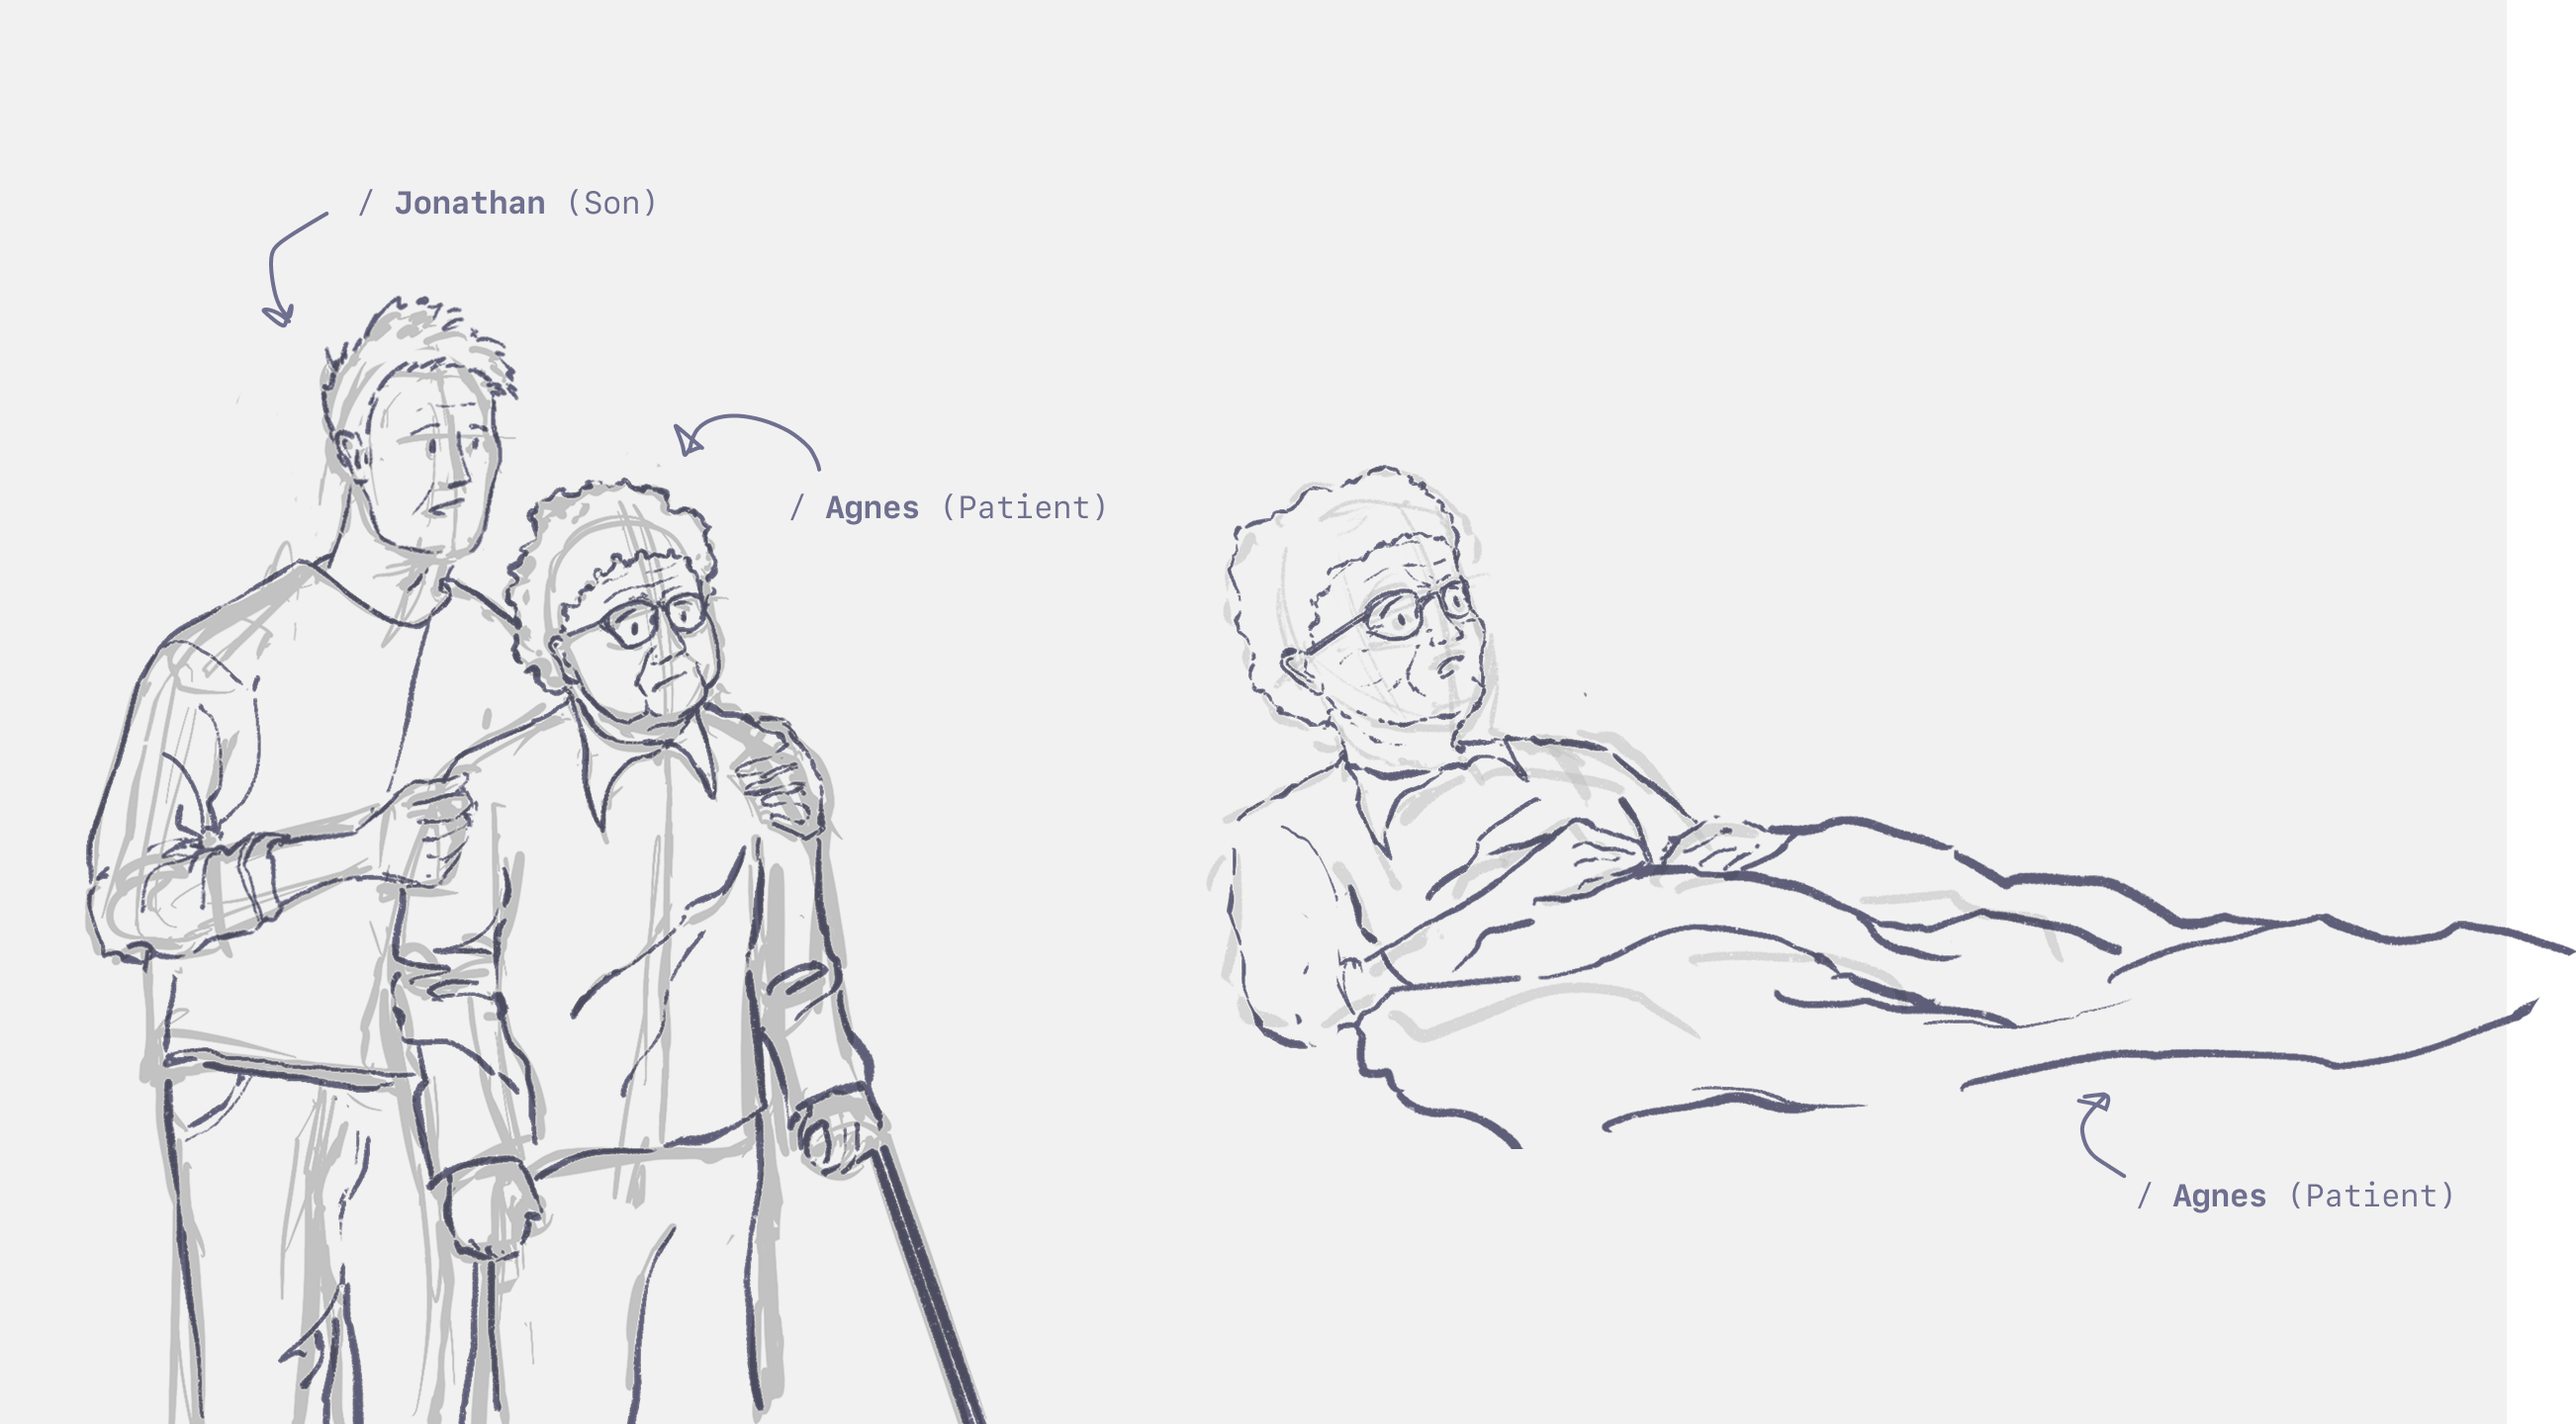
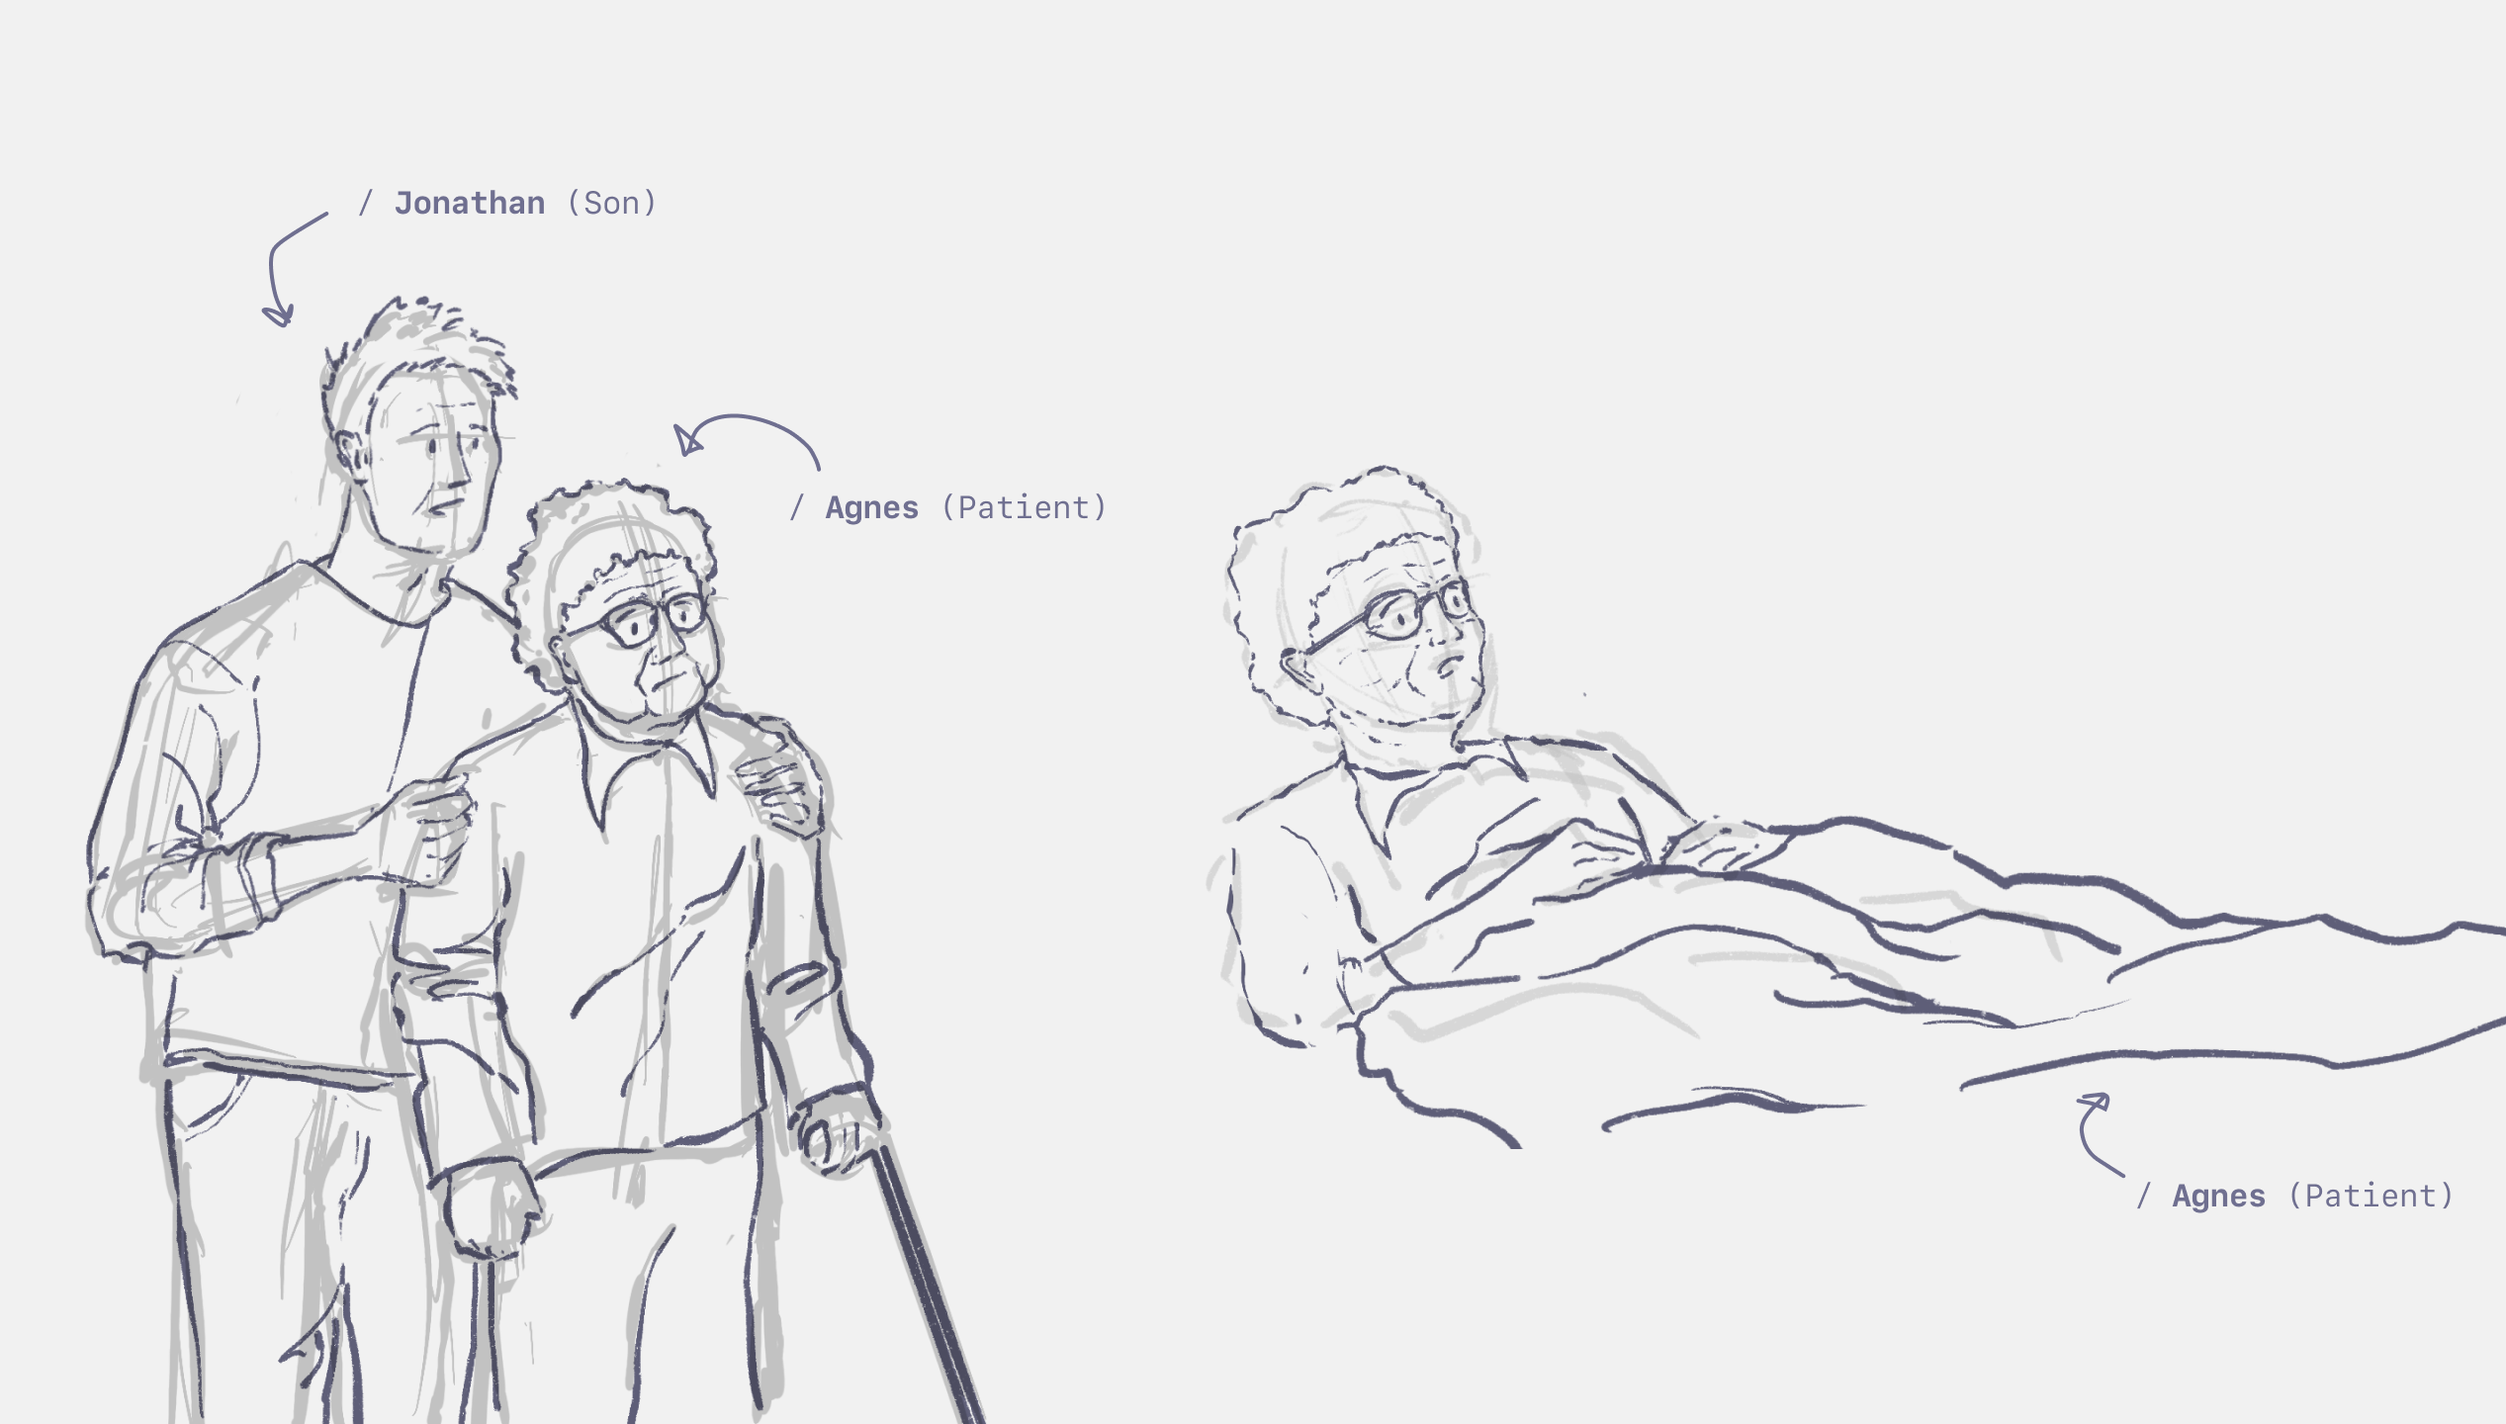
replaced images and working image alignment

diff --git a/src/app/slides/slides/Slide4.tsx b/src/app/slides/slides/Slide4.tsx
@@ -1,6 +1,7 @@
 'use client';
 
 import ResponsiveVideo from "../../components/ResponsiveVideo";
+import OptimizedImage from "../../components/OptimizedImage";
 import { motion } from "framer-motion";
 import { ChevronDown } from "lucide-react";
 
@@ -40,12 +41,19 @@ export default function Slide4() {
       </section>
 
       <section className="w-full flex flex-col justify-center items-center">
-        <div className="container-padding">
-          <img
-            src="/image/case_studies/01/0_Extra/Final_R1E.png"
-            alt="Case Study 01"
-            className="w-full h-full object-contain"
-          />
+        <div className="container-padding w-full max-w-none">
+          <div className="relative w-full" style={{ aspectRatio: '16 / 9', width: '100%', maxWidth: '100%' }}>
+            <img
+              src="/image/case_studies/01/0_Extra/Final_R1E.png"
+              alt="Case Study 01"
+              className="w-full h-full object-contain no-mobile"
+            />
+            <OptimizedImage
+              src="/image/case_studies/01/0_Extra/Final_R1E.png"
+              alt="Case Study 01"
+              className="w-full h-full object-contain mobile-only"
+            />
+          </div>
           <span className="caption text-sm font-mono ">/ Past static storytelling methods started to feel limited.</span>
         </div>
       </section>
@@ -61,14 +69,29 @@ export default function Slide4() {
         
         <div className="w-full">
           <div className="image-grid image-grid-tall grid grid-cols-3 gap-4 mb-8 items-stretch">
-            <div className="col-span-1 flex items-center justify-center">
+            <div className="col-span-1 flex items-center justify-center mobile-only" style={{ aspectRatio: '1/2' }}>
+              <OptimizedImage
+                src="/image/case_studies/01/B_Character-Sketches/Provider_model_sheet.png"
+                alt="Case Study Small"
+                className="h-full w-full object-contain mobile-only"
+              />
+            </div>
+            <div className="col-span-2 flex items-center justify-center mobile-only" style={{ aspectRatio: '16/9' }}>
+              <OptimizedImage
+                src="/image/case_studies/01/B_Character-Sketches/Patient_model_sheet.png"
+                alt="Case Study Large"
+                className="h-full w-full object-contain "
+              />
+            </div>
+              
+            <div className="col-span-1 flex items-center justify-center no-mobile" >
               <img
                 src="/image/case_studies/01/B_Character-Sketches/Provider_model_sheet.png"
                 alt="Case Study Small"
                 className="h-full w-full object-contain"
               />
             </div>
-            <div className="col-span-2 flex items-center justify-center">
+            <div className="col-span-2 flex items-center justify-center no-mobile" >
               <img
                 src="/image/case_studies/01/B_Character-Sketches/Patient_model_sheet.png"
                 alt="Case Study Large"
@@ -78,26 +101,34 @@ export default function Slide4() {
           </div>
 
           <div className="image-grid image-grid-short grid grid-cols-2 md:grid-cols-4 gap-4">
-            <img
-              src="/image/case_studies/01/B_Character-Sketches/storyboard_sketch_1.png"
-              alt="Grid 1"
-              className="h-full w-full object-cover"
-            />
-            <img
-              src="/image/case_studies/01/B_Character-Sketches/storyboard_sketch_2.png"
-              alt="Grid 2"
-              className="h-full w-full object-cover"
-            />
-            <img
-              src="/image/case_studies/01/B_Character-Sketches/storyboard_sketch_3.png"
-              alt="Grid 3"
-              className="h-full w-full object-cover"
-            />
-            <img
-              src="/image/case_studies/01/B_Character-Sketches/storyboard_sketch_4.png"
-              alt="Grid 4"
-              className="h-full w-full object-cover"
-            />
+            <div className="relative w-full" style={{ aspectRatio: '16/9' }}>
+              <OptimizedImage
+                src="/image/case_studies/01/B_Character-Sketches/storyboard_sketch_1.png"
+                alt="Grid 1"
+                className="h-full w-full object-cover"
+              />
+            </div>
+            <div className="relative w-full" style={{ aspectRatio: '16/9' }}>
+              <OptimizedImage
+                src="/image/case_studies/01/B_Character-Sketches/storyboard_sketch_2.png"
+                alt="Grid 2"
+                className="h-full w-full object-cover"
+              />
+            </div>
+            <div className="relative w-full" style={{ aspectRatio: '16/9' }}>
+              <OptimizedImage
+                src="/image/case_studies/01/B_Character-Sketches/storyboard_sketch_3.png"
+                alt="Grid 3"
+                className="h-full w-full object-cover"
+              />
+            </div>
+            <div className="relative w-full" style={{ aspectRatio: '16/9' }}>
+              <OptimizedImage
+                src="/image/case_studies/01/B_Character-Sketches/storyboard_sketch_4.png"
+                alt="Grid 4"
+                className="h-full w-full object-cover"
+              />
+            </div>
           </div>
           
           <p className="container-padding caption text-sm font-mono ">/ Patient & Provider model sheets and early storyboard sketches.</p>
@@ -120,8 +151,8 @@ export default function Slide4() {
         
         <div className="w-full image-grid image-grid-tall grid grid-cols-3 gap-4 mb-8 items-stretch">
           <div className="col-span-2 flex flex-col">
-            <div className="flex-1 flex items-center justify-center">
-              <img
+            <div className="flex-1 flex items-center justify-center " style={{ aspectRatio: '16/9' }}>
+              <OptimizedImage
                 src="/image/case_studies/01/C_How_About_3D/r4-B.png"
                 alt="Case Study Small"
                 className="h-full w-full object-contain"
@@ -131,10 +162,10 @@ export default function Slide4() {
           </div>
           <div className="col-span-1 flex flex-col">
             <div className="flex-1 flex items-center justify-center">
-              <img
+              <OptimizedImage
                 src="/image/case_studies/01/C_How_About_3D/r1-A.png"
                 alt="Case Study Large"
-                className="h-full w-full object-contain"
+                className="h-full w-full object-cover"
               />
             </div>
             <p className="container-padding caption text-sm font-mono ">/ Emergency room bay</p>

diff --git a/src/app/slides/slides/Slide5.tsx b/src/app/slides/slides/Slide5.tsx
@@ -42,11 +42,16 @@ export default function Slide5() {
       </section>
 
       <section className="synthesize-section w-full flex flex-col justify-center items-center">
-        <div className="relative">
+        <div className="relative w-full" style={{ aspectRatio: '16 / 9', width: '100%', maxWidth: '100%' }}>
+          <img
+            src="/image/case_studies/02/A_synthesize.png"
+            alt="scattered items, picturing a zoom window, a notebook, the Microsoft Teams logo, the Zoom logo, a PDF, and a clock."
+            className="w-full h-full object-cover no-mobile"
+          />
           <OptimizedImage
             src="/image/case_studies/02/A_synthesize.png"
             alt="scattered items, picturing a zoom window, a notebook, the Microsoft Teams logo, the Zoom logo, a PDF, and a clock."
-            className="w-full h-full object-cover"
+            className="w-full h-full object-cover mobile-only"
           />
           <div className="absolute synthesize-text">
             <h3 className="h3-all-caps text-primary-color text-center font-bold">/ Synthesizing data</h3>
@@ -165,13 +170,16 @@ export default function Slide5() {
         <div className="w-full">
           <div className="image-grid image-grid-tall grid grid-cols-3 mb-8 responsive-grid">
             <div className="col-span-2 maria-col">
-              <div className="relative">
+              <div className="relative h-full min-h-[600px]">
                 <p className="padding-md caption text-sm font-mono text-primary-color cursor-note"><span className="font-bold">Cursor</span> allowed us to build an interactive digital environment for exploring these conversations.</p>
-                <OptimizedImage
-                  src="/image/case_studies/02/Maria_Sketch_Coloured.png"
-                  alt="Case Study Small"
-                  className="h-full w-full object-contain maria-color"
-                />                
+                <div className="relative w-full" style={{ height: 'calc(100% - 80px)', marginTop: 'auto' }}>
+                  <OptimizedImage
+                    src="/image/case_studies/02/Maria_Sketch_Coloured.png"
+                    alt="Case Study Small"
+                    className="h-full w-full object-contain"
+                    style={{ objectPosition: 'bottom' }}
+                  />
+                </div>                
                 <h3 className="absolute h3-all-caps text-3rem text-white text-center design-solution">/ The design solution</h3>
               </div>
               

diff --git a/src/app/components/OptimizedImage.tsx b/src/app/components/OptimizedImage.tsx
@@ -50,7 +50,7 @@ export default function OptimizedImage({
         priority={priority}
         loading={loading}
         className={className}
-        quality={85}
+        quality={100}
         sizes="(max-width: 768px) 100vw, (max-width: 1200px) 50vw, 33vw"
         {...imageProps}
       />
@@ -71,14 +71,14 @@ export default function OptimizedImage({
     .trim();
 
   return (
-    <div className={`relative ${otherClasses}`} style={{ width: '100%', height: '100%' }}>
+    <div className={`relative ${otherClasses}`} style={{ width: '100%', height: '100%', maxWidth: '100%', boxSizing: 'border-box' }}>
       <Image
         src={src}
         alt={alt}
         fill
         priority={priority}
         loading={loading}
-        quality={85}
+        quality={100}
         sizes="(max-width: 768px) 100vw, (max-width: 1200px) 50vw, 33vw"
         className={objectFitClass}
         {...imageProps}
